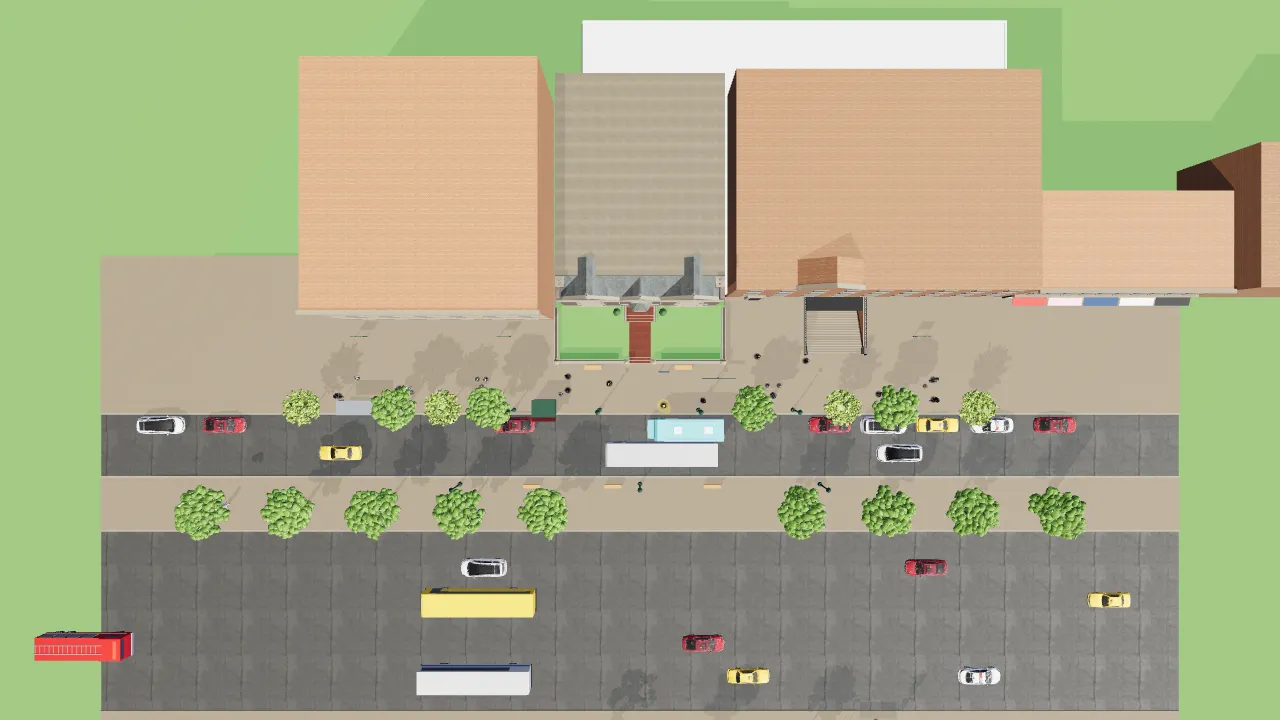
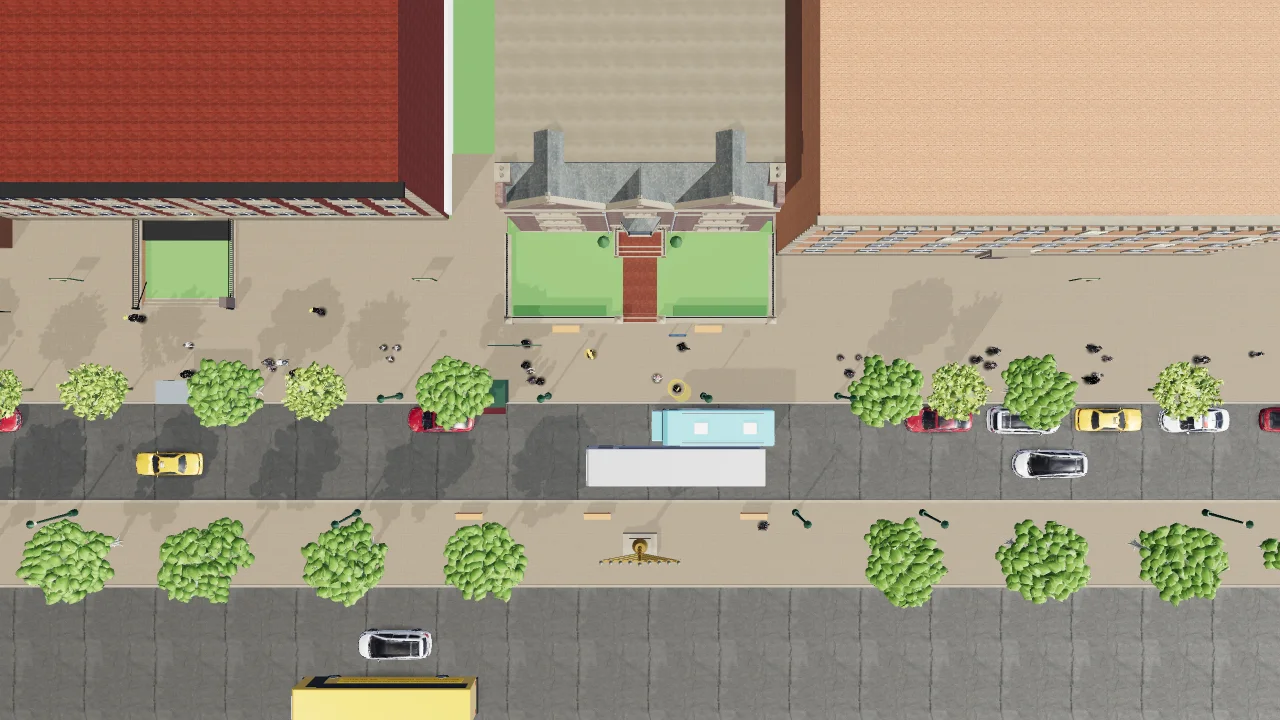
Grand Zal et 784-788 déplacés à gauche du 770 (photo Google Maps), sans miroir : intérieur inchangé, place du Rebbe à droite de l'Aron
- world/decalage.tsx : translation DX_ZAL du Zal, de son bâtiment, de ses PNJ, portes, places et interactions
- 784-788 refait d'après la photo : 4 niveaux de brique rouge, toit plat, corniche sombre, encadrements de pierre blanche
- bibliothèque 766 à droite du 770 ; panneau indicateur, chalia'h, pièces, affiches, livraisons, radar et plan suivis
- devant le heichal : 2 bancs par rangée au lieu de 4

diff --git a/src/missions/MissionsRue.tsx b/src/missions/MissionsRue.tsx
@@ -224,7 +224,7 @@ export function MissionsRue() {
   }, [inventaire])
   return (
     <>
-      <PnjZal id="pnj-chaliah" position={[-13, 0, 5.6]} rotationY={0} nomCle="chaliah.nom" repliqueCle="chaliah.repos" peau="#d6a586" barbe="#3a2a1e" />
+      <PnjZal id="pnj-chaliah" position={[-22.5, 0, 5.6]} rotationY={0} nomCle="chaliah.nom" repliqueCle="chaliah.repos" peau="#d6a586" barbe="#3a2a1e" />
       <Pieces />
       <Affiches />
       <Balise />
